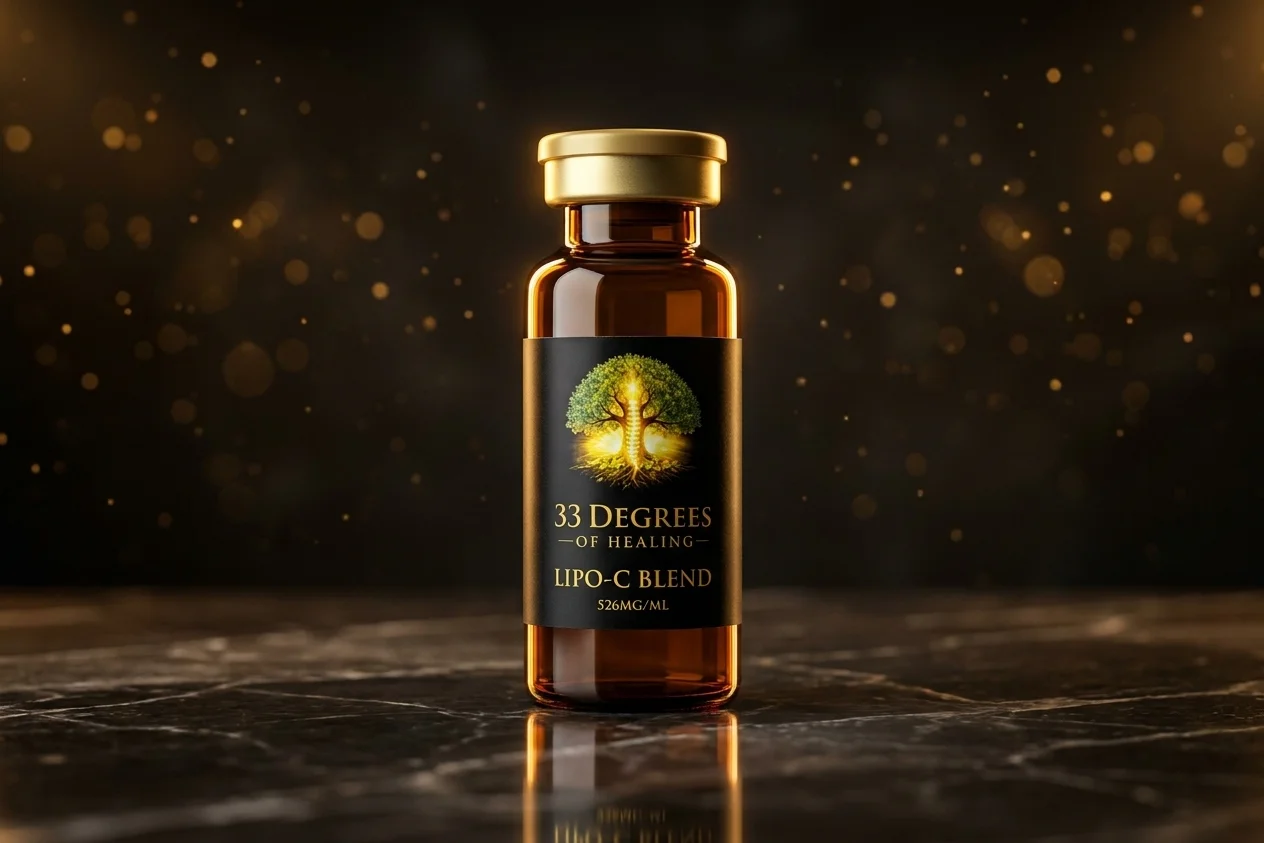
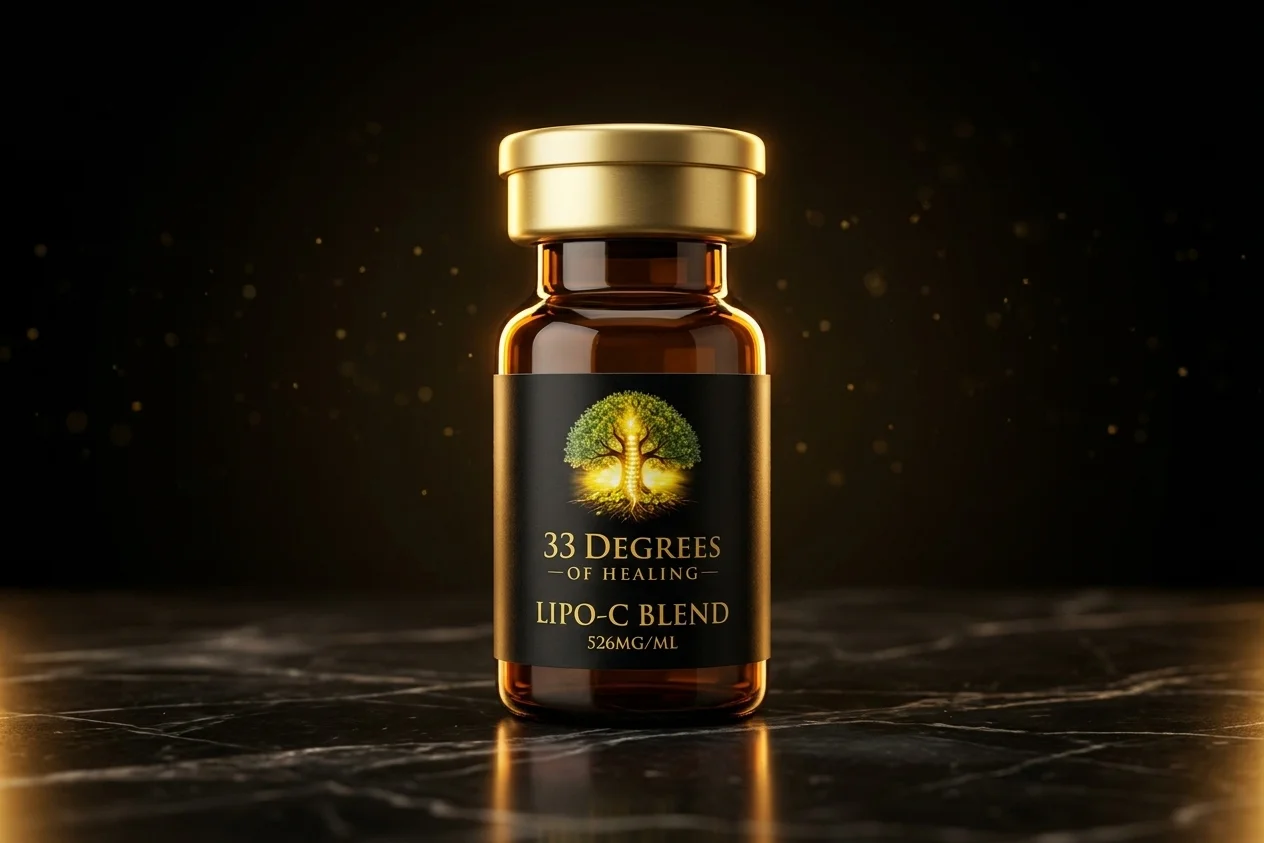
LIPO-C vial: stockier proportions to match the peptide vial lineup

diff --git a/tools/generate_lipo_vial_ai.py b/tools/generate_lipo_vial_ai.py
@@ -28,11 +28,12 @@ def generate():
     prompt = """Generate a photorealistic product image of a small amber glass PEPTIDE INJECTION VIAL for a research compound company called "33 Degrees of Healing". This must visually match a lineup of existing peptide vials (PT-141, Kisspeptin, Selank, Semax) shown alongside it on the website.
 
 CRITICAL SHAPE & PROPORTION REQUIREMENTS:
-- Small pharmaceutical-style amber/brown glass injection vial, NOT a supplement bottle
-- TALLER than wide — roughly 2.5x taller than its diameter
-- Has a distinct neck and shoulder (narrower at the top where the stopper sits)
-- Small GOLD ALUMINUM FLIP-OFF CAP — the kind on injectable medication vials (small, rounded crown shape, NOT a flat screw-top)
-- The vial is small enough to hold in two fingers
+- Standard 10mL pharmaceutical lyophilization vial / peptide vial
+- STOCKY proportions — only about 1.4-1.6x taller than wide (NOT a tall thin test tube)
+- Wide cylindrical body with a short neck at the top
+- LARGE GOLD ALUMINUM FLIP-OFF CAP — almost the full diameter of the vial body, distinctive crown shape with a smooth dome top
+- Body diameter and cap diameter should be nearly the same
+- Think: classic peptide research vial like BPC-157 or TB-500 packaging
 
 LABEL LAYOUT (must match the existing lineup exactly):
 - Black rectangular label wrapping the middle of the vial body (does NOT cover the entire body)
